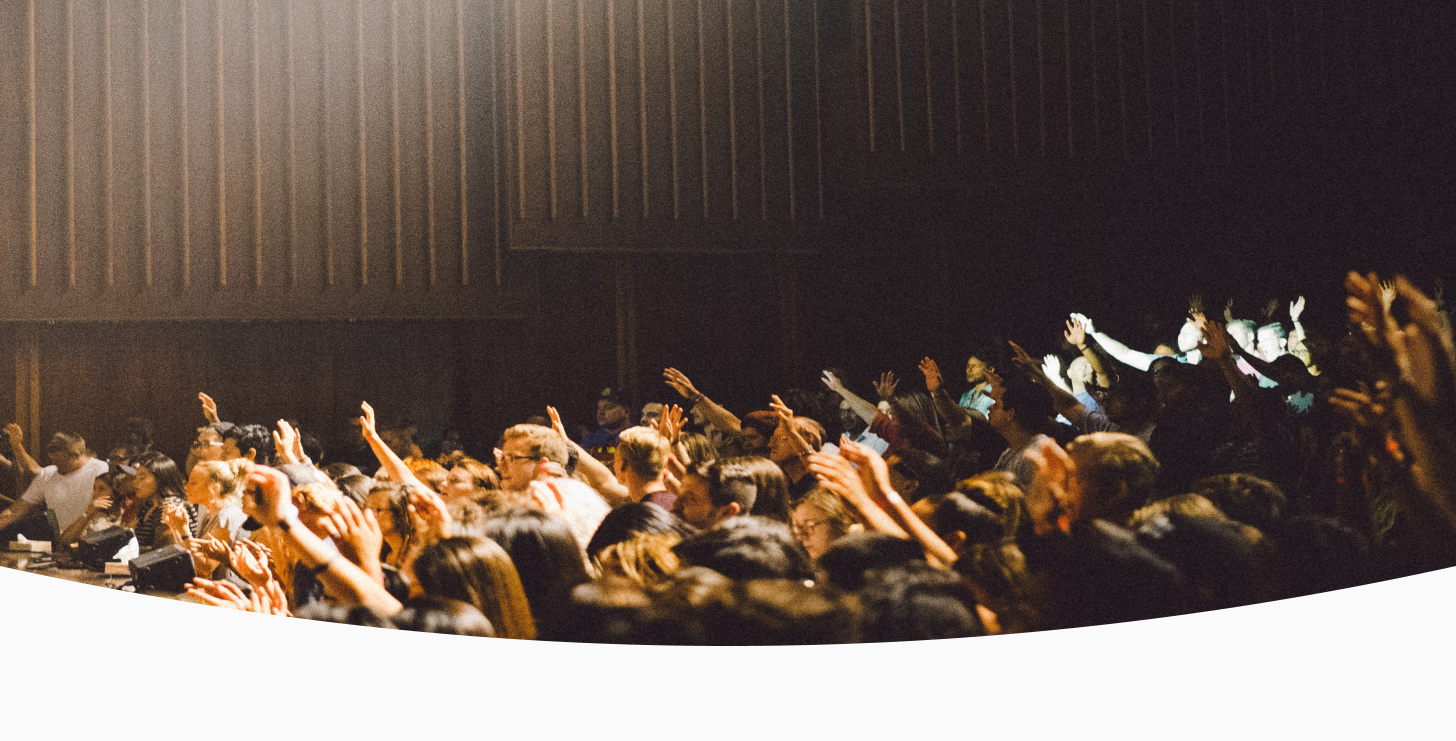
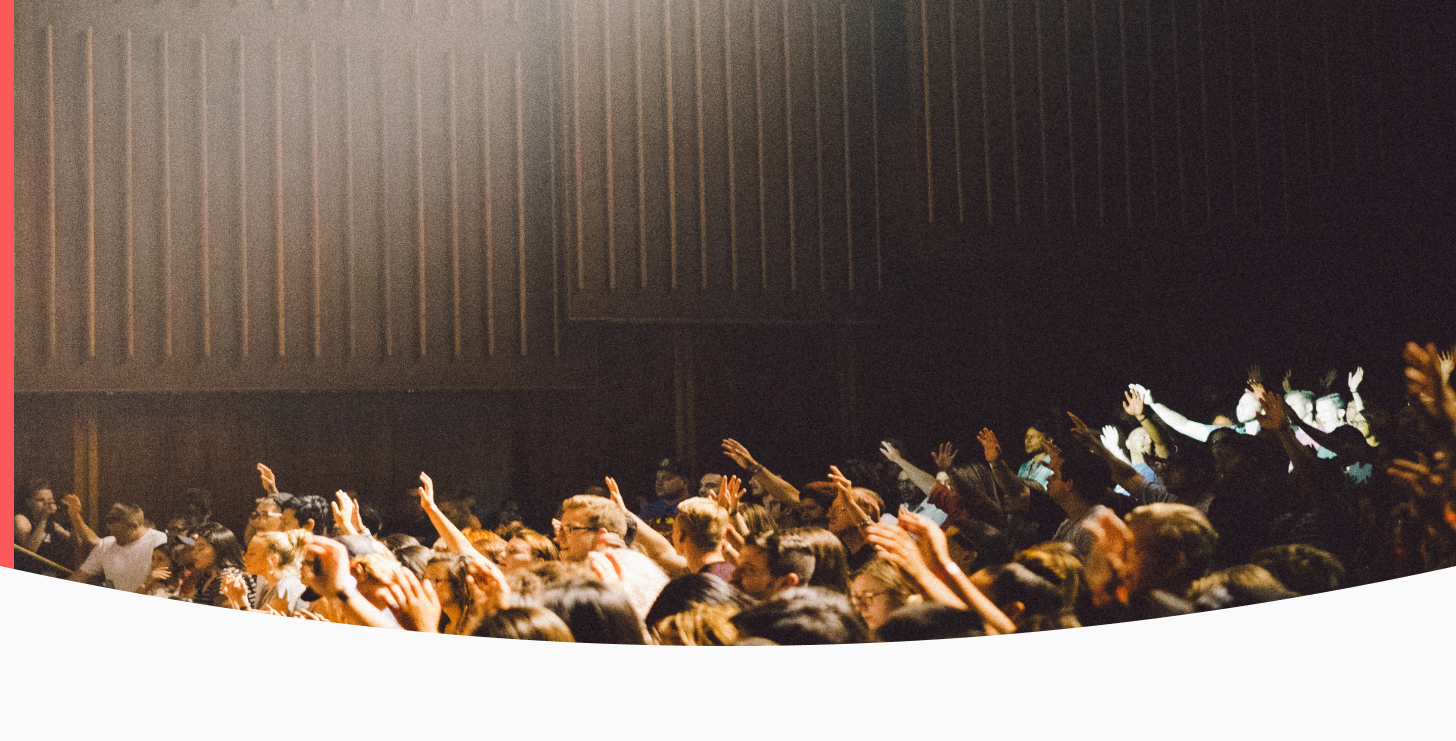
hero section bug fixed

diff --git a/index.html b/index.html
@@ -142,9 +142,9 @@
     <main>
       <section
         id="hero"
-        class="bg-[url('public/hero.png')] bg-cover bg-center h-screen -z-1 w-full top-0">
+        class="bg-[url('/hero.png')] bg-cover bg-center h-screen -z-1 w-full top-0">
         <div
-          class="container text-center h-110 md:h-150 flex text-white my-auto flex-col items-center justify-center mx-auto">
+          class="container text-center h-150 flex text-white my-auto flex-col items-center justify-center mx-auto">
           <p class="text-base lg:text-xl font-semibold">
             Discover <span class="text-main font-extrabold">-</span> Interact
             <span class="text-main font-extrabold">-</span> Engage
